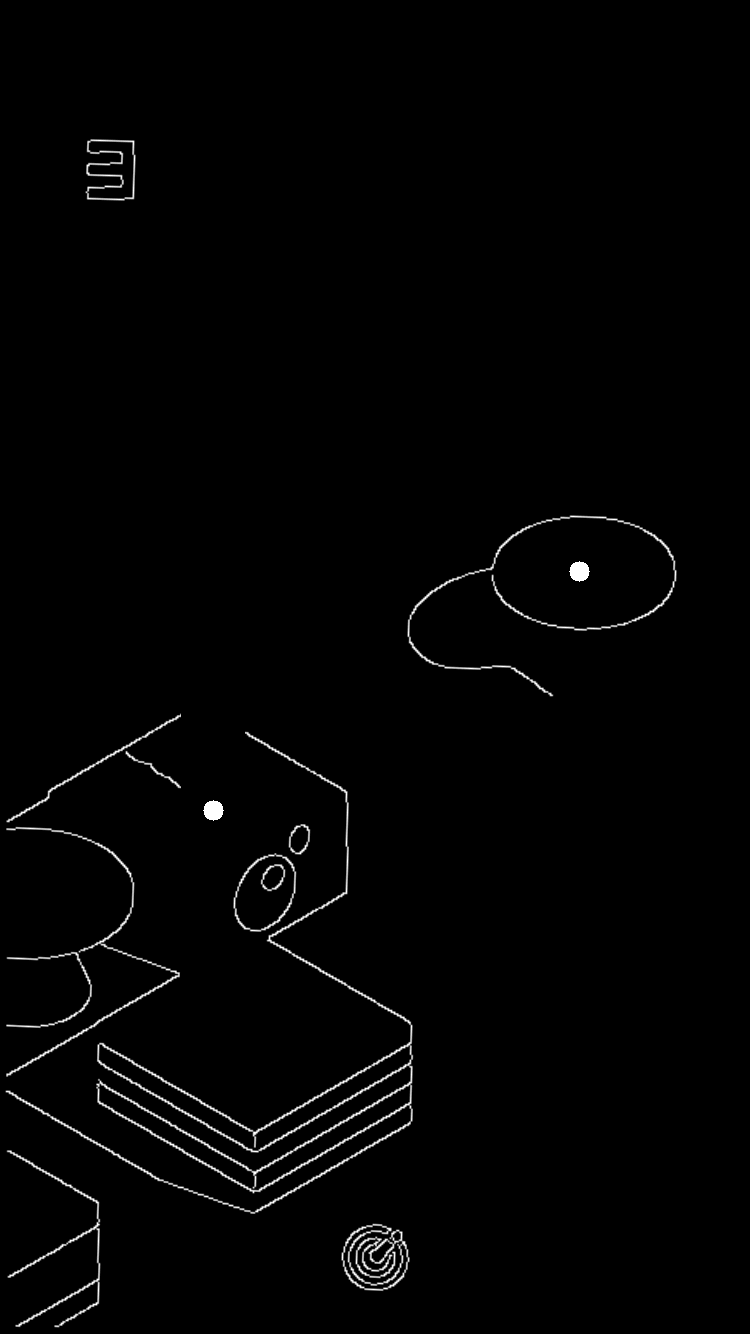
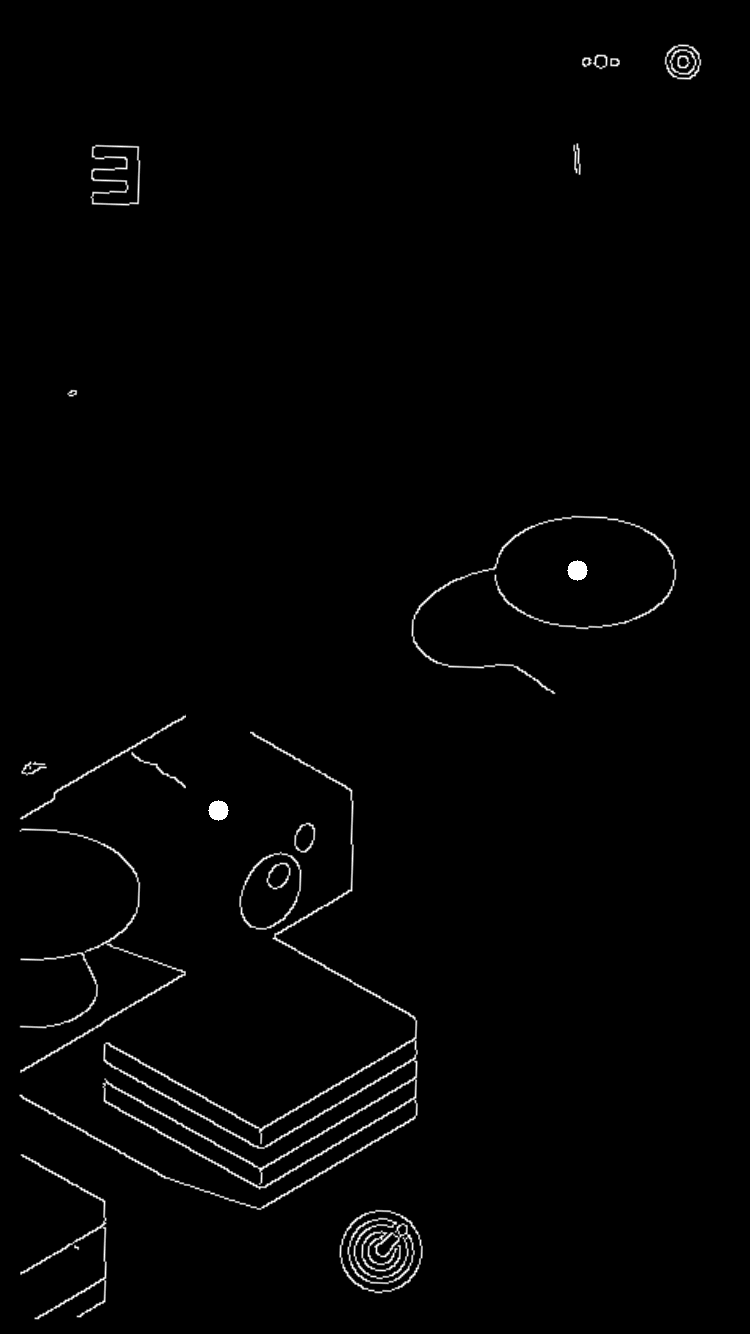
use out rec

diff --git a/play.py b/play.py
@@ -80,11 +80,34 @@ def get_center(img_canny, ):
     x_center, y_center = x_top, (y_top + y_bottom) // 2
     return img_canny, x_center, y_center
 
+def find4point(points):
+    lt = None
+    rt = None
+    lb= None
+    rb = None
+
+    # points = points[np.argsort(points[:][0])]
+    points = points[points[:, 0].argsort()]
+
+    print(points)
+    if points[0][1] > points[1][1]:
+        lt = points[1]
+        lb = points[0]
+    else:
+        lt = points[0]
+        lb = points[1]
+    if points[2][1] > points[3][1]:
+        rt = points[3]
+        rb = points[2]
+    else:
+        rt = points[2]
+        rb = points[3]
+    return ((lt[0], lt[1]), (lb[0], lb[1]), (rt[0], rt[1]), (rb[0], rb[1]))
 
 def getScreen(img_rgb):
     img0=img_rgb
     img_rgb = cv2.GaussianBlur(img_rgb, (3, 3), 0)
-    canny_img = cv2.Canny(img_rgb,100, 410)
+    canny_img = cv2.Canny(img_rgb,100, 210)
     img_rgb=canny_img
     # gray_lap = cv2.Laplacian(img_rgb,cv2.CV_32F,ksize = 3)  
     # img_rgb = cv2.convertScaleAbs(gray_lap)  
@@ -104,14 +127,29 @@ def getScreen(img_rgb):
             size_rectangle_max = size_rectangle 
             big_rectangle = approximation
             maxi=i
-    cv2.drawContours(canny_img,contours0,maxi,(0,0,0),10)  
+    cv2.drawContours(canny_img,contours0,maxi,(0,0,0),20)  
     # for con in contours0[maxi][:,0]:
     #     cv2.circle(img0,tuple(con),10,255,-1)
-    # _=pl.imshow(img0,cmap=pl.gray())
+    # _=pl.imshow(img0)
     # pl.show()
 
-    pentagram = contours0[maxi] 
-    lu,rd,ld,ru=findPoint(pentagram[:,0])
+    pentagram = contours0[maxi]
+    cnt=pentagram
+    rect = cv2.minAreaRect(cnt)  # 最小外接矩形
+    box = np.int0(cv2.boxPoints(rect))  # 矩形的四个角点取整
+    print(box)
+    cv2.drawContours((img0), [box], 0, (255, 0, 0), 2)
+    _=pl.imshow(img0)
+    pl.show()
+
+    # print(type(pentagram[:,0]) 
+    # print(type(big_rectangle))
+    lu,ld,ru,rd=find4point(box)
+    # lu=(box[0][0],box[0][1])
+    # ld=(box[1][0],box[1][1])
+    # rd=(box[2][0],box[2][1])
+    # ru=(box[3][0],box[3][1])
+    # lu,rd,ld,ru=findPoint(pentagram[:,0])
     print(lu,ru,ld,rd)
     #warp
     # 原图中卡片的四个角点
@@ -150,7 +188,7 @@ w2, h2 = temp_white_circle.shape[::-1]
 for i in range(10000):
     # get_screenshot(0)
     img_rgb = cv2.imread('10.png', 0)
-
+    # img_rgb=np.rot90(img_rgb)
     # 如果在游戏截图中匹配到带"再玩一局"字样的模板，则循环中止
     res_end = cv2.matchTemplate(img_rgb, temp_end, cv2.TM_CCOEFF_NORMED)
     if cv2.minMaxLoc(res_end)[1] > 0.95:

diff --git a/findPoint.py b/findPoint.py
@@ -1,7 +1,7 @@
 #coding:utf-8
 import cv2
 import pylab as pl
-img_rgb=cv2.imread("9.png",0)
+img_rgb=cv2.imread("aaa.png",0)
 img0=img_rgb
 img_rgb = cv2.GaussianBlur(img_rgb, (3, 3), 0)
 canny_img = cv2.Canny(img_rgb,100, 210)
